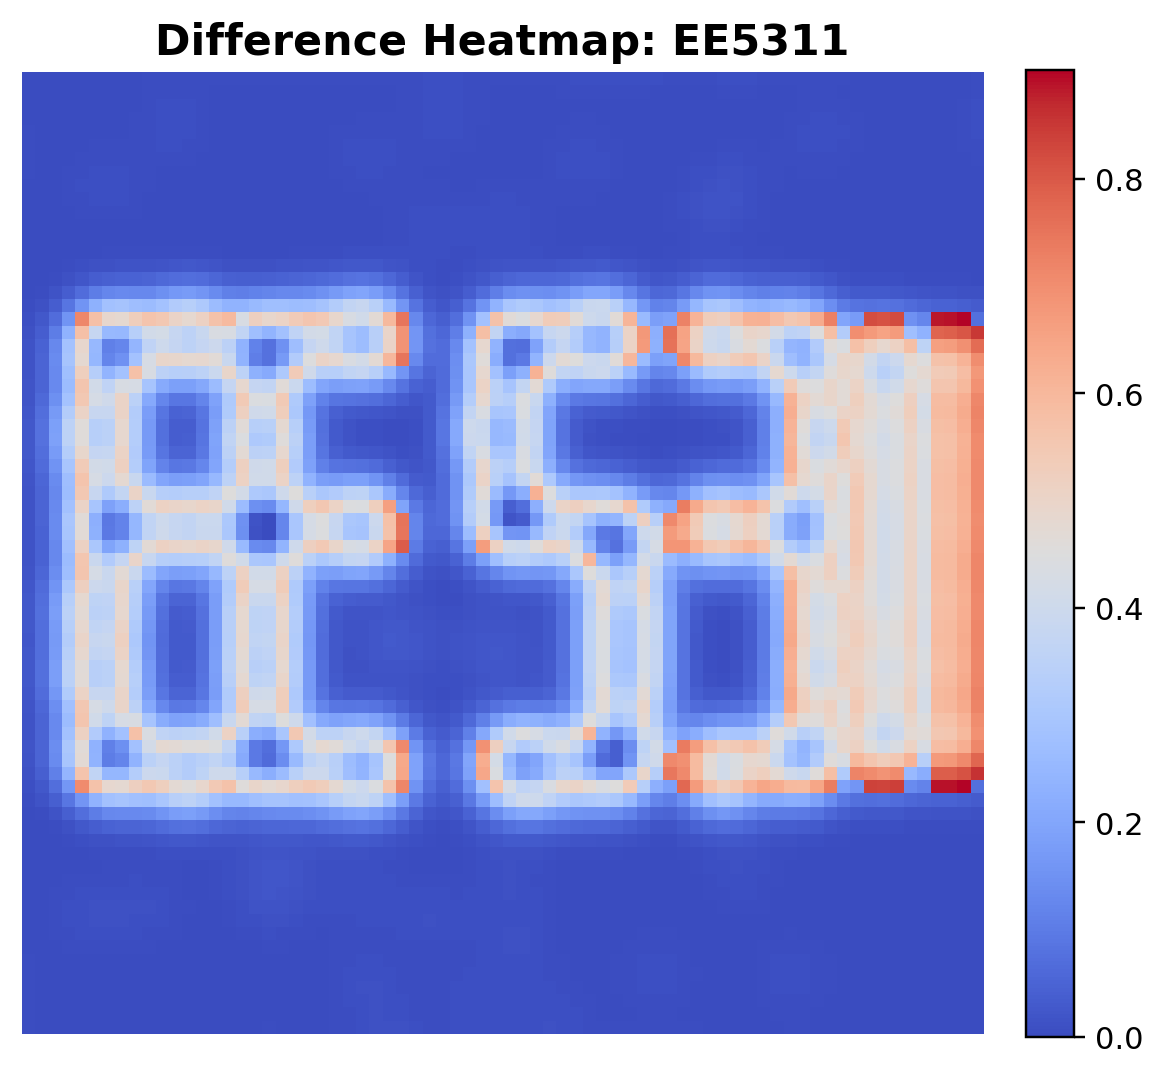
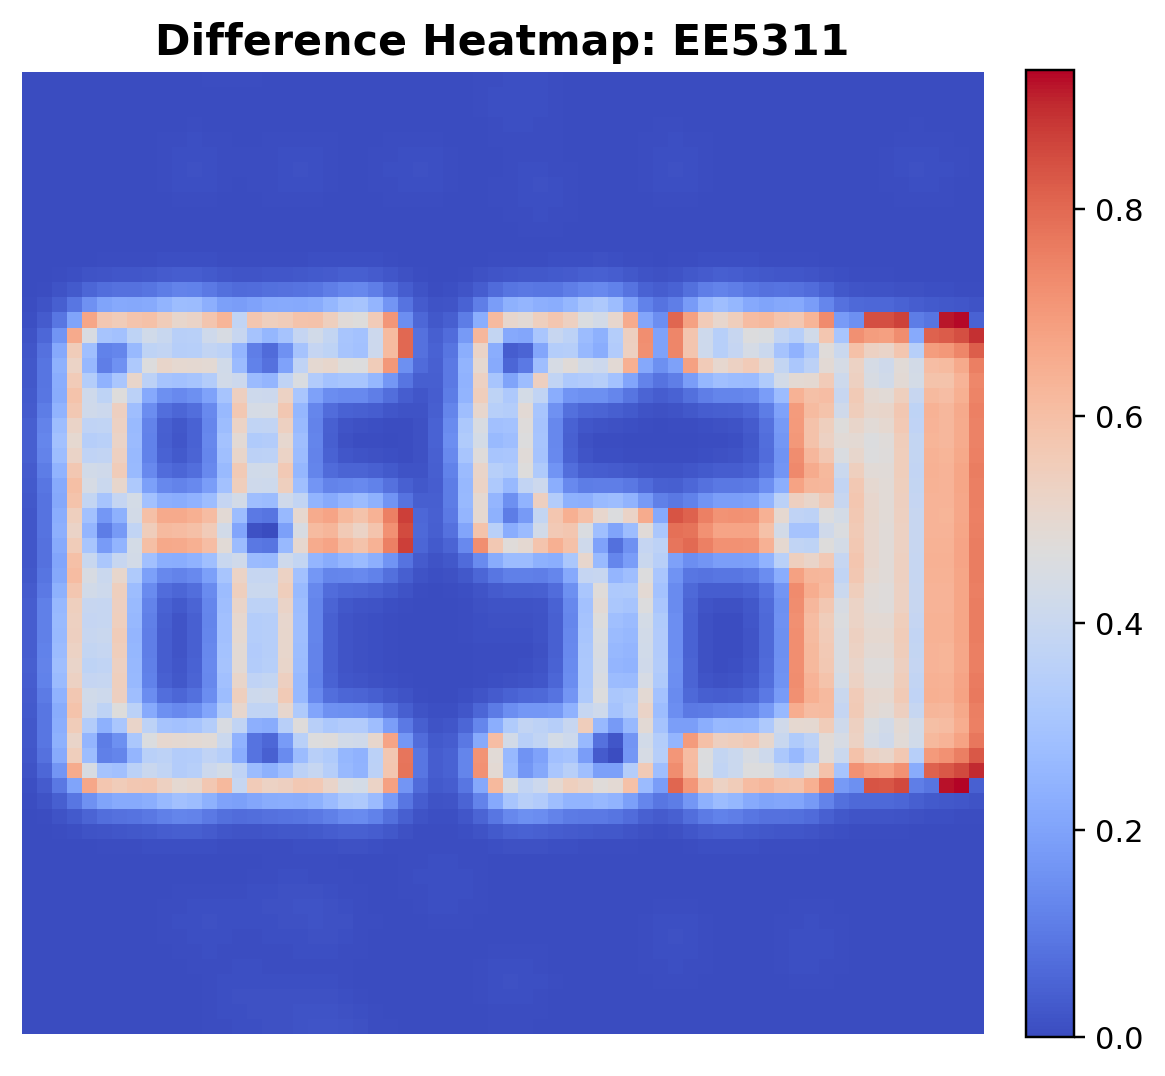
Switch site content to candidate 02

diff --git a/index.html b/index.html
@@ -18,7 +18,9 @@
           <h1>Caustic Lens Optimization</h1>
           <p class="hero-text">
             A compact result page for presenting the final images, optimization
-            GIF, captions, and the report-ready interpretation paragraph.
+            GIF, captions, and the report-ready interpretation paragraph. This
+            version keeps close to the original teammate logic while extending
+            the training to a more presentation-ready result set.
           </p>
         </div>
         <div class="hero-meta">
@@ -28,7 +30,7 @@
           </div>
           <div class="meta-card">
             <span class="meta-label">Resolution</span>
-            <strong>N = 72</strong>
+            <strong>N = 64</strong>
           </div>
           <div class="meta-card">
             <span class="meta-label">Epochs</span>
@@ -36,7 +38,7 @@
           </div>
           <div class="meta-card">
             <span class="meta-label">Parameters</span>
-            <strong>lr = 0.01, TV = 0.005</strong>
+            <strong>lr = 0.01, TV = 0.01</strong>
           </div>
         </div>
       </header>
@@ -138,18 +140,18 @@
             <p>
               With the learning rate set to 0.01, the caustic optimization is
               able to recover the main strokes of the target pattern in a stable
-              way. The main result figure and the optimization GIF jointly show
-              that the solver first establishes the large-scale light
-              distribution and then progressively sharpens the target strokes.
-              The 3D surface figure indicates that the learned lens profile is a
-              continuous and interpretable refractive structure instead of
-              irregular noise. Meanwhile, the difference heatmap shows that the
-              residual errors mainly appear near edges and high-curvature
-              regions, which is consistent with the finite grid resolution,
-              Gaussian spot approximation, and simplified refraction model used
-              in this demo. Overall, the results support the central claim that
-              differentiable optimization can invert a desired caustic pattern
-              into a structured lens surface.
+              way after 300 epochs. The main result figure and the optimization
+              GIF jointly show that the solver first establishes the large-scale
+              light distribution and then progressively sharpens the target
+              strokes. The 3D surface figure indicates that the learned lens
+              profile is a continuous and interpretable refractive structure
+              instead of irregular noise. Meanwhile, the difference heatmap
+              shows that the residual errors mainly appear near edges and
+              high-curvature regions, which is consistent with the finite grid
+              resolution, Gaussian spot approximation, and simplified refraction
+              model used in this demo. Overall, the results support the central
+              claim that differentiable optimization can invert a desired
+              caustic pattern into a structured lens surface.
             </p>
           </div>
         </section>

diff --git a/assets/Task3_Result_Interpretation_EN_Concise_with_CN.md b/assets/Task3_Result_Interpretation_EN_Concise_with_CN.md
@@ -11,8 +11,8 @@ This note focuses on what the final images reveal about optimization quality and
 ## Shared observations across all cases
 ## 三个 case 的共同点
 
-- All three cases show clear convergence. The loss drops by about 72.49% for `GROUP23`, 72.45% for `NUS`, and 62.89% for `EE5311`, and the GIFs show a consistent coarse-to-fine optimization trend.
-- 三个 case 都表现出清晰的收敛趋势。`GROUP23` 的 loss 下降约 `72.49%`，`NUS` 下降约 `72.45%`，`EE5311` 下降约 `62.89%`，而 GIF 也都显示出从粗到细的统一优化过程。
+- All three cases show clear convergence. The loss drops by about 61.10% for `GROUP23`, 60.27% for `NUS`, and 52.44% for `EE5311`, and the GIFs show a consistent coarse-to-fine optimization trend.
+- 三个 case 都表现出清晰的收敛趋势。`GROUP23` 的 loss 下降约 `61.10%`，`NUS` 下降约 `60.27%`，`EE5311` 下降约 `52.44%`，而 GIF 也都显示出从粗到细的统一优化过程。
 
 - In every case, the rendered caustics recover the main stroke layout of the target. This means the optimizer is not producing arbitrary brightness blobs; it is learning a surface that redirects energy toward the desired pattern.
 - 在每个 case 中，生成的焦散图都恢复了目标图案的主要笔画布局。这说明优化器不是随便生成亮斑，而是在学习一个能够把光能重新引导到目标结构上的表面。
@@ -29,8 +29,8 @@ This note focuses on what the final images reveal about optimization quality and
 ### GROUP23
 ### GROUP23
 
-- `GROUP23` is the strongest reconstruction in this run, with the lowest mean difference error of `0.1198`.
-- `GROUP23` 是这次实验里重建效果最好的 case，它的平均差值误差最低，为 `0.1198`。
+- `GROUP23` is the strongest reconstruction in this run, with the lowest mean difference error of `0.1208`.
+- `GROUP23` 是这次实验里重建效果最好的 case，它的平均差值误差最低，为 `0.1208`。
 
 - Its target is spatially separated into upper and lower regions, and the optimized result preserves that separation well. This makes it a good example of successful large-scale energy routing.
 - 它的目标图案在空间上分成上下两个区域，而优化结果较好地保留了这种分离结构，因此它是“大尺度能量重分配成功”的典型例子。
@@ -38,8 +38,8 @@ This note focuses on what the final images reveal about optimization quality and
 ### NUS
 ### NUS
 
-- `NUS` is the middle case, with a mean difference error of `0.1320`.
-- `NUS` 处于中间水平，平均差值误差为 `0.1320`。
+- `NUS` is the middle case, with a mean difference error of `0.1390`.
+- `NUS` 处于中间水平，平均差值误差为 `0.1390`。
 
 - The main letter skeleton is recovered clearly, but some local rounding remains along edges and thinner connections. This makes it a useful example of stable reconstruction with moderate detail loss.
 - 它的主要字母骨架恢复得比较清楚，但边缘和较细连接处仍然有一些圆化和模糊，因此它适合用来说明“整体稳定恢复，但细节略有损失”的情况。
@@ -47,8 +47,8 @@ This note focuses on what the final images reveal about optimization quality and
 ### EE5311
 ### EE5311
 
-- `EE5311` is the most challenging case here, with the highest mean difference error of `0.1655`.
-- `EE5311` 是这里最有挑战性的 case，平均差值误差最高，为 `0.1655`。
+- `EE5311` is the most challenging case here, with the highest mean difference error of `0.1703`.
+- `EE5311` 是这里最有挑战性的 case，平均差值误差最高，为 `0.1703`。
 
 - Its repeated tall strokes and dense right-side structure make it harder to sharpen cleanly, so the residual blur and boundary mismatch are more visible than in the other two cases.
 - 它包含重复的高竖笔画和右侧更密集的结构，因此更难被锐利地恢复出来，残余模糊和边界不匹配也比另外两个 case 更明显。

diff --git a/assets/任务3结果说明_中文.md b/assets/任务3结果说明_中文.md
@@ -1,11 +1,11 @@
 # Task 3 可视化与主结果解读
 
 ## 运行设置
-- 分辨率 N: 72
+- 分辨率 N: 64
 - 训练轮数 epochs: 300
 - 学习率 lr: 0.01
-- TV 正则权重: 0.005
-- GIF 取帧间隔: 每 20 个 epoch 一帧
+- TV 正则权重: 0.01
+- GIF 取帧间隔: 每 15 个 epoch 一帧
 - 重点展示 pattern: EE5311
 
 ## 文件说明
@@ -26,25 +26,25 @@
 ## 图像解读
 
 ### GROUP23（补充展示对象）
-- 最终 loss 从 1664.0129 降到 457.7230，下降比例约为 72.49%。
-- 归一化差值热图的平均误差为 0.1198，最大误差为 0.9499。
-- 高度图范围为 [-0.5292, 0.7546]，标准差为 0.1848，说明表面并非随机噪声，而是形成了连续起伏的折射结构。
+- 最终 loss 从 1644.7686 降到 639.7531，下降比例约为 61.10%。
+- 归一化差值热图的平均误差为 0.1208，最大误差为 0.9673。
+- 高度图范围为 [-0.4500, 0.8870]，标准差为 0.1835，说明表面并非随机噪声，而是形成了连续起伏的折射结构。
 - 从主结果图可以看出，亮斑会优先在目标笔画主体位置聚集，说明优化确实把光能量重新分配到了目标形状附近。
 - 差值较大的区域主要集中在细线条边缘、拐角和局部高曲率位置，这通常来自有限分辨率、Gaussian 光斑平滑和简化折射模型带来的模糊。
 - 三维表面图呈现的是大尺度平滑隆起和沟槽，而不是尖锐孤立尖峰，这与 TV 正则项抑制高频噪声、鼓励连续表面的作用一致。
 
 ### NUS（补充展示对象）
-- 最终 loss 从 1765.3395 降到 486.3742，下降比例约为 72.45%。
-- 归一化差值热图的平均误差为 0.1320，最大误差为 0.8369。
-- 高度图范围为 [-0.4884, 0.7398]，标准差为 0.1652，说明表面并非随机噪声，而是形成了连续起伏的折射结构。
+- 最终 loss 从 1760.5283 降到 699.4822，下降比例约为 60.27%。
+- 归一化差值热图的平均误差为 0.1390，最大误差为 0.8855。
+- 高度图范围为 [-0.4079, 0.8656]，标准差为 0.1672，说明表面并非随机噪声，而是形成了连续起伏的折射结构。
 - 从主结果图可以看出，亮斑会优先在目标笔画主体位置聚集，说明优化确实把光能量重新分配到了目标形状附近。
 - 差值较大的区域主要集中在细线条边缘、拐角和局部高曲率位置，这通常来自有限分辨率、Gaussian 光斑平滑和简化折射模型带来的模糊。
 - 三维表面图呈现的是大尺度平滑隆起和沟槽，而不是尖锐孤立尖峰，这与 TV 正则项抑制高频噪声、鼓励连续表面的作用一致。
 
 ### EE5311（核心展示对象）
-- 最终 loss 从 1858.0432 降到 689.5040，下降比例约为 62.89%。
-- 归一化差值热图的平均误差为 0.1655，最大误差为 0.9020。
-- 高度图范围为 [-0.5967, 0.7498]，标准差为 0.1748，说明表面并非随机噪声，而是形成了连续起伏的折射结构。
+- 最终 loss 从 1910.2147 降到 908.4966，下降比例约为 52.44%。
+- 归一化差值热图的平均误差为 0.1703，最大误差为 0.9343。
+- 高度图范围为 [-0.4973, 0.7016]，标准差为 0.1559，说明表面并非随机噪声，而是形成了连续起伏的折射结构。
 - 从主结果图可以看出，亮斑会优先在目标笔画主体位置聚集，说明优化确实把光能量重新分配到了目标形状附近。
 - 差值较大的区域主要集中在细线条边缘、拐角和局部高曲率位置，这通常来自有限分辨率、Gaussian 光斑平滑和简化折射模型带来的模糊。
 - 三维表面图呈现的是大尺度平滑隆起和沟槽，而不是尖锐孤立尖峰，这与 TV 正则项抑制高频噪声、鼓励连续表面的作用一致。

diff --git a/assets/Task3_Result_Interpretation_EN_Concise.md b/assets/Task3_Result_Interpretation_EN_Concise.md
@@ -6,7 +6,7 @@ This note focuses on what the final images reveal about optimization quality and
 
 ## Shared observations across all cases
 
-- All three cases show clear convergence. The loss drops by about 72.49% for `GROUP23`, 72.45% for `NUS`, and 62.89% for `EE5311`, and the GIFs show a consistent coarse-to-fine optimization trend.
+- All three cases show clear convergence. The loss drops by about 61.10% for `GROUP23`, 60.27% for `NUS`, and 52.44% for `EE5311`, and the GIFs show a consistent coarse-to-fine optimization trend.
 - In every case, the rendered caustics recover the main stroke layout of the target. This means the optimizer is not producing arbitrary brightness blobs; it is learning a surface that redirects energy toward the desired pattern.
 - The height maps and 3D surfaces are smooth but structured. They contain broad ridges and valleys rather than isolated spikes, which is consistent with TV regularization and supports the interpretation that the learned surface is physically meaningful.
 - The remaining errors are concentrated near thin strokes, corners, and crowded boundaries. This suggests that the current simplified model captures global geometry better than the finest local details.
@@ -15,17 +15,17 @@ This note focuses on what the final images reveal about optimization quality and
 
 ### GROUP23
 
-- `GROUP23` is the strongest reconstruction in this run, with the lowest mean difference error of `0.1198`.
+- `GROUP23` is the strongest reconstruction in this run, with the lowest mean difference error of `0.1208`.
 - Its target is spatially separated into upper and lower regions, and the optimized result preserves that separation well. This makes it a good example of successful large-scale energy routing.
 
 ### NUS
 
-- `NUS` is the middle case, with a mean difference error of `0.1320`.
+- `NUS` is the middle case, with a mean difference error of `0.1390`.
 - The main letter skeleton is recovered clearly, but some local rounding remains along edges and thinner connections. This makes it a useful example of stable reconstruction with moderate detail loss.
 
 ### EE5311
 
-- `EE5311` is the most challenging case here, with the highest mean difference error of `0.1655`.
+- `EE5311` is the most challenging case here, with the highest mean difference error of `0.1703`.
 - Its repeated tall strokes and dense right-side structure make it harder to sharpen cleanly, so the residual blur and boundary mismatch are more visible than in the other two cases.
 - Even so, the dominant silhouette is still recovered well, which makes `EE5311` a good focus case for discussing both success and limitation at the same time.
 
